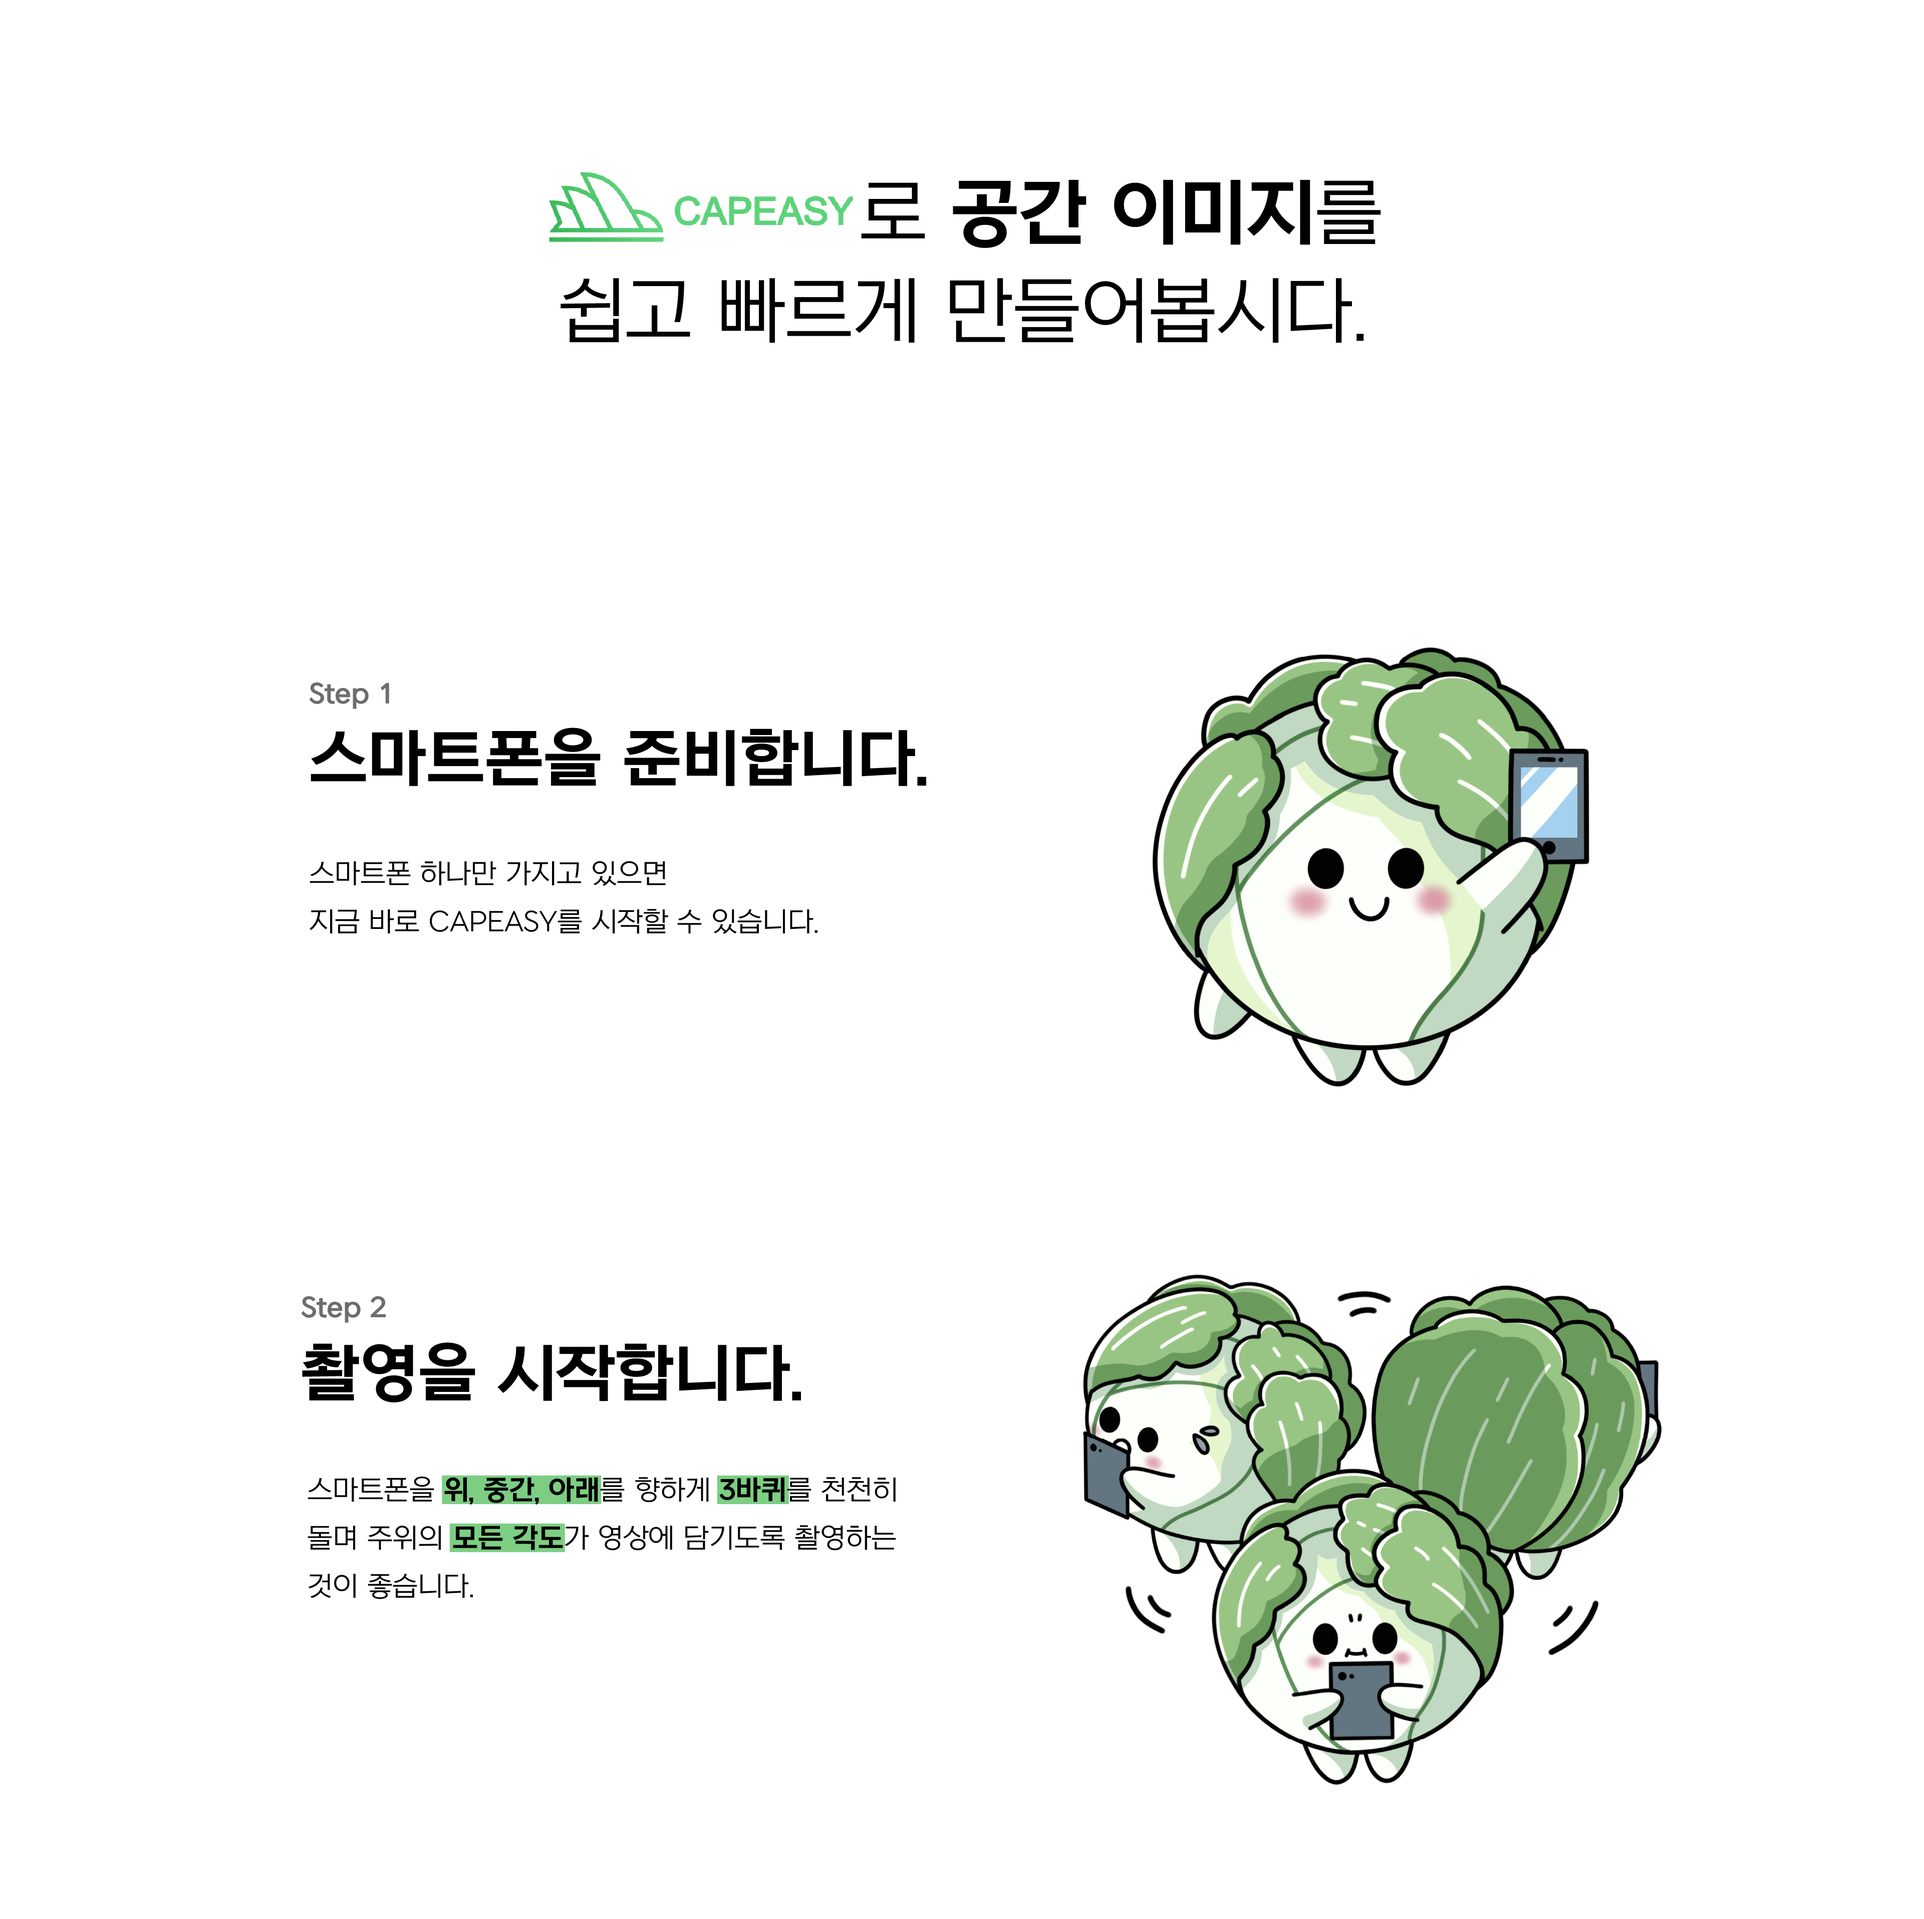
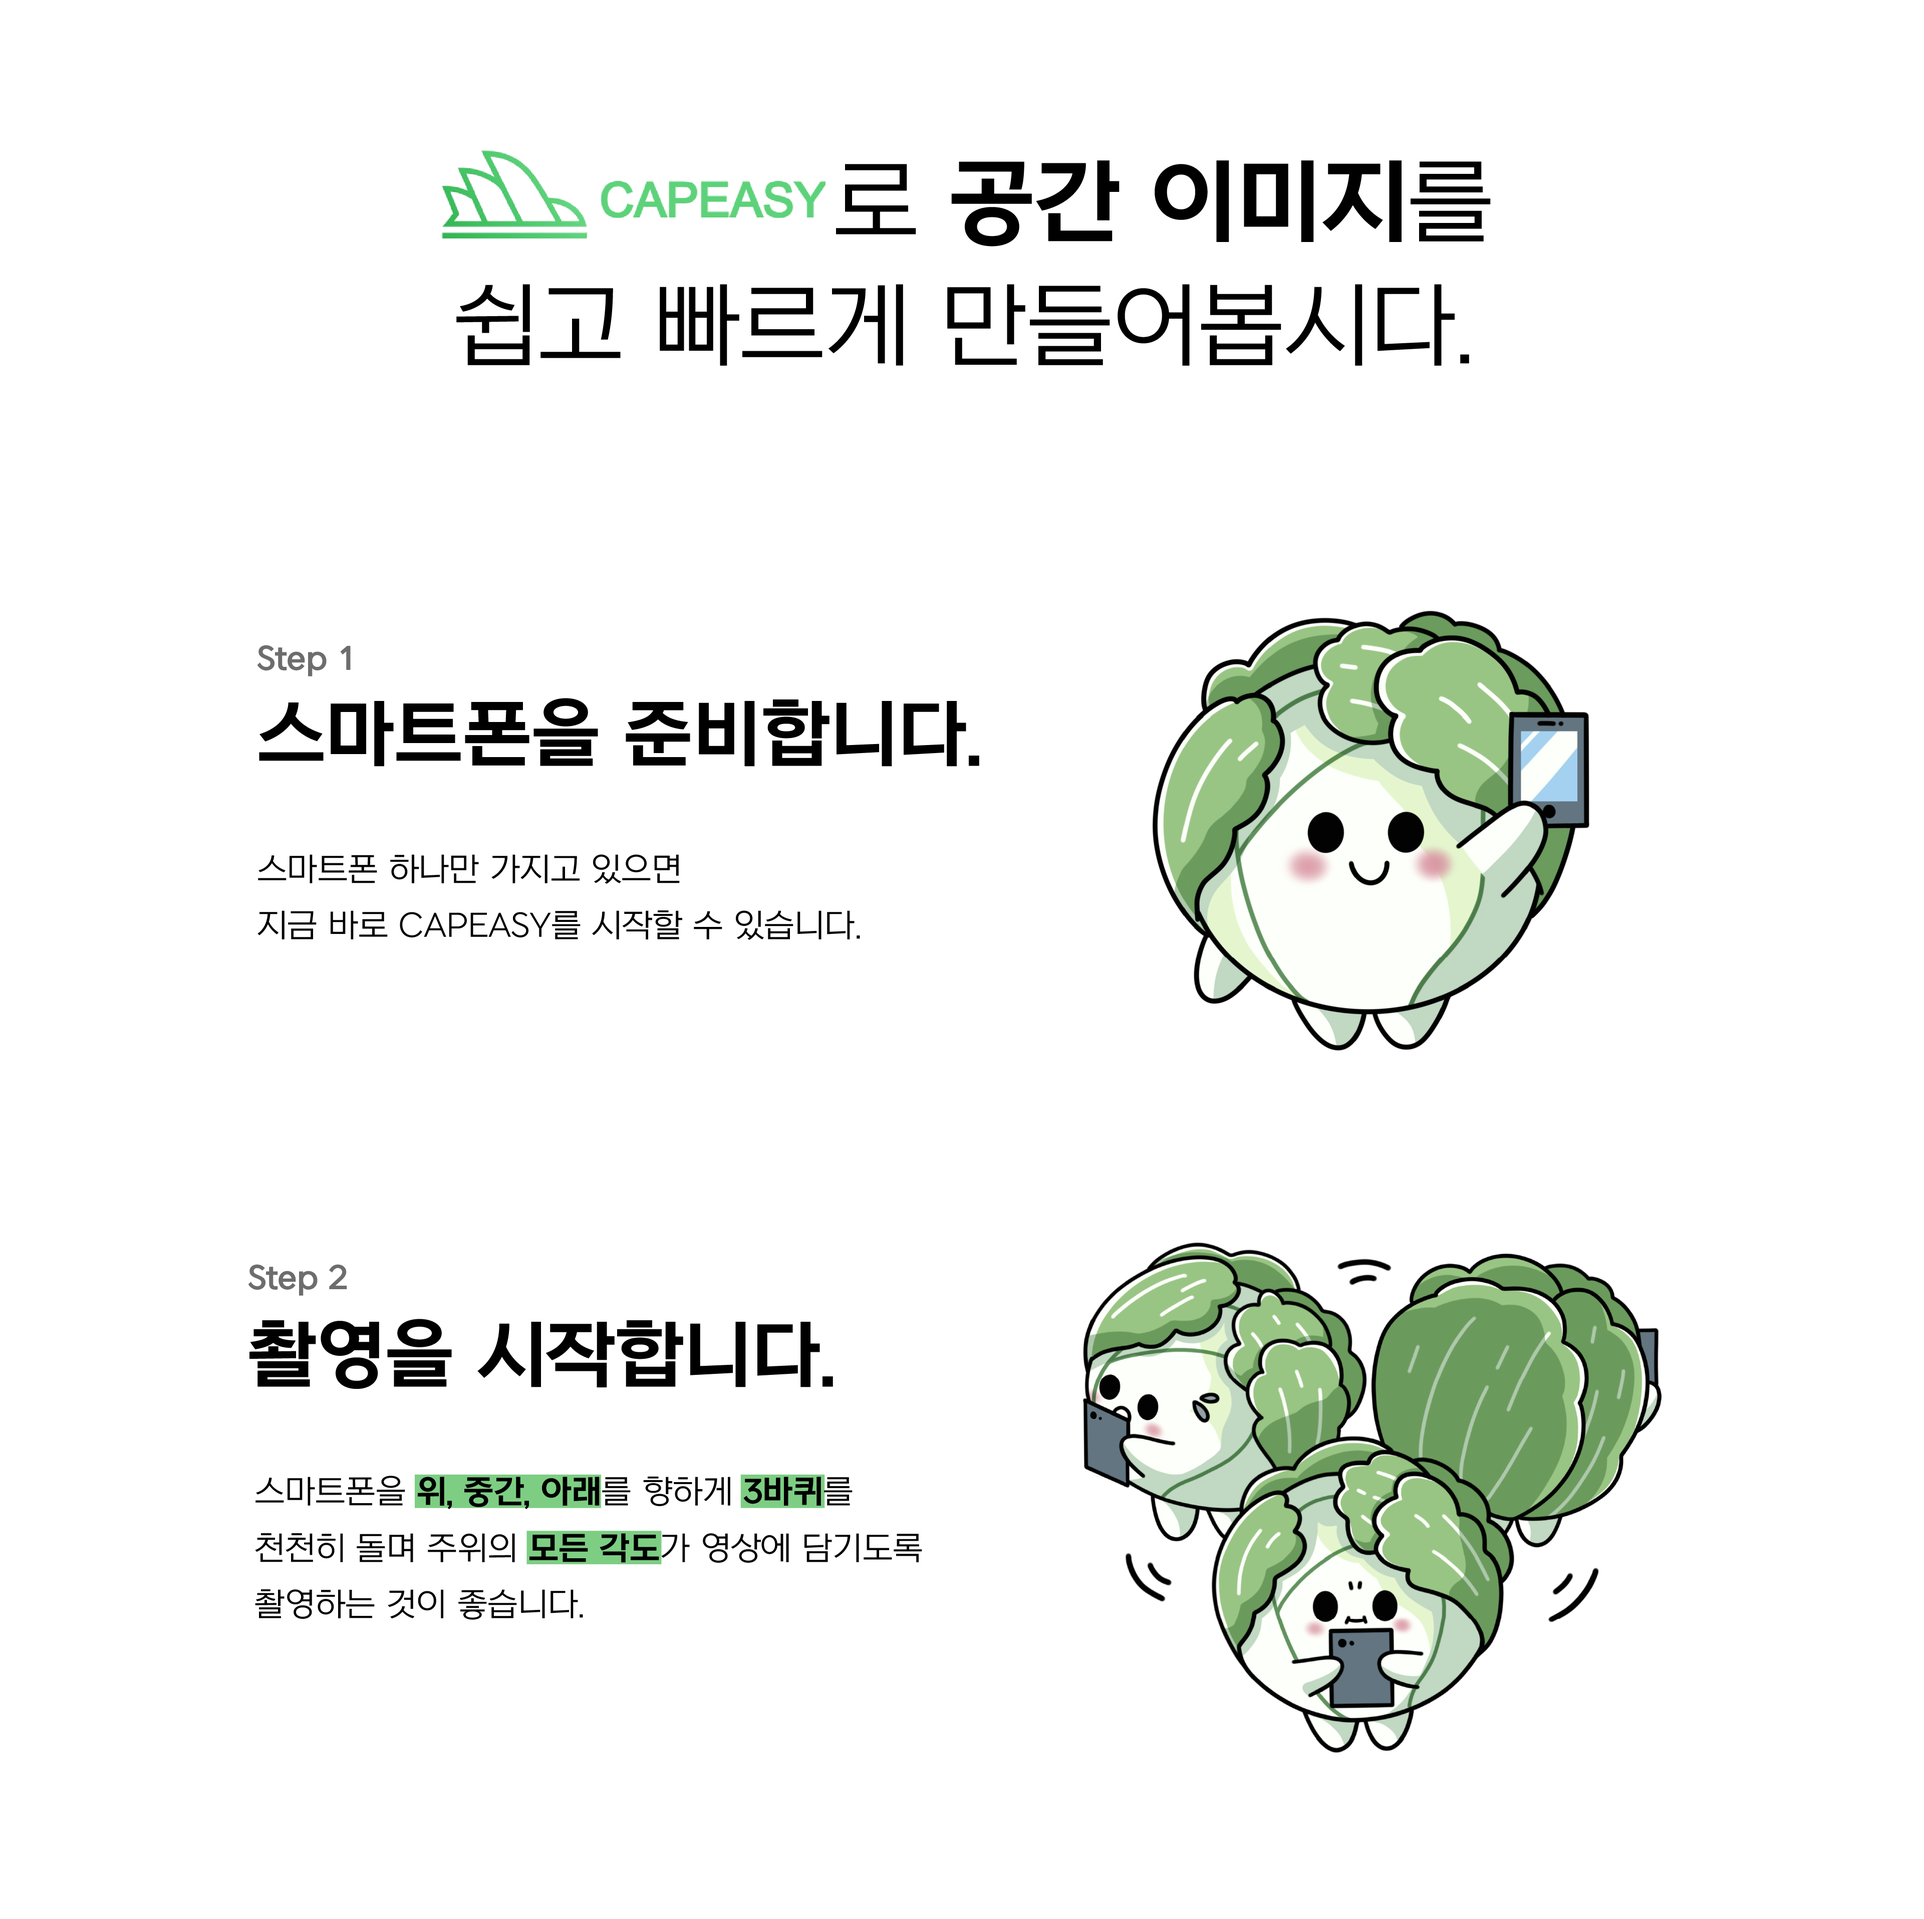
style: 배경 이미지 변경
모바일 사용자를 위해 폰트 크기 수정

diff --git a/src/components/capeasy/MainComponent.js b/src/components/capeasy/MainComponent.js
@@ -130,7 +130,7 @@ function MainComponent(props) {
 
                         <motion.div
                             ref={introduce3}
-                            className="w-full h-auto aspect-[3841/4112] bg-introduce3-image bg-cover bg-center"
+                            className="w-full h-auto aspect-[3841/4320] bg-introduce3-image bg-cover bg-center"
                             initial={{opacity: 0, y: 20}}
                             animate={{
                                 opacity: introduceInView3 ? 1 : 0,
